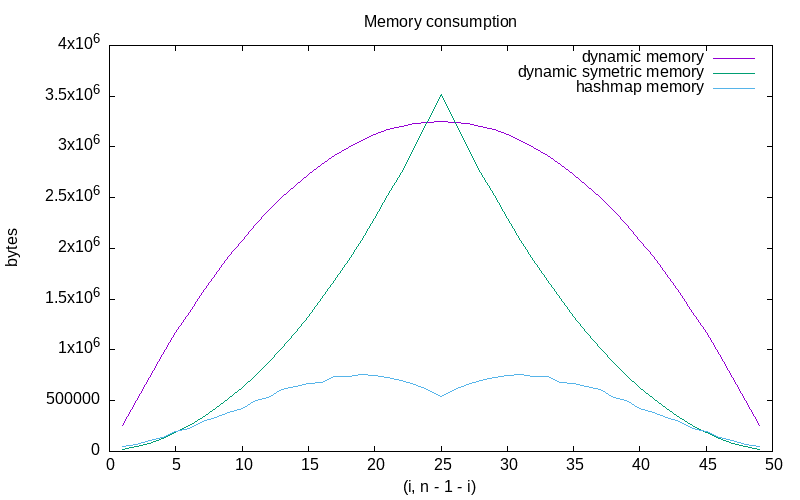
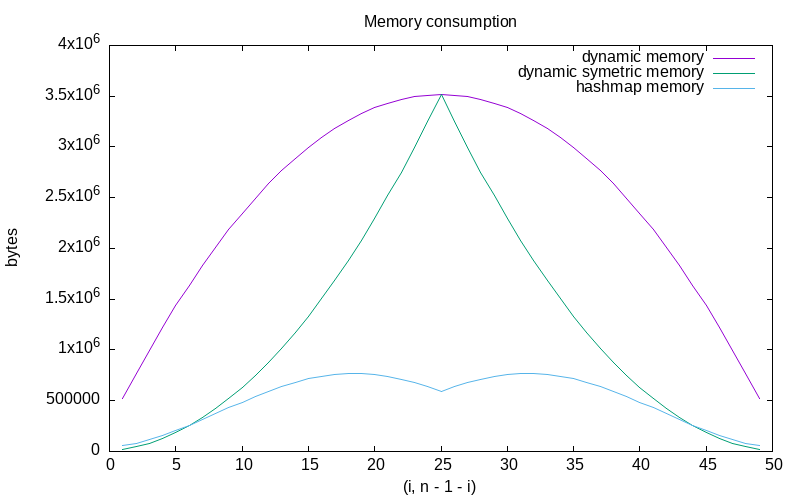
fixed hashmap with different table sizes

diff --git a/TP2/tablet.c b/TP2/tablet.c
@@ -135,9 +135,9 @@ int calculate_configuration_dynamic_init(tablet_t tablet)
    i = tablet.point.i;
    j = tablet.point.j;
 
-   int16_t ****array = init_array(m, n, i, j);
+   int16_t ****array = init_array(m, n, i + 1, j + 1);
    int res = calculate_configuration_dynamic(tablet, array);
-   free_array(array, m, n, i, j);
+   free_array(array, m, n, i + 1, j + 1);
    return res;
 }
 
@@ -146,8 +146,8 @@ void calculate_all_configurations_equals_x(tablet_t tablet, int x)
    int m, n, i, j;
    m = tablet.m;
    n = tablet.n;
-   i = tablet.m - 1;
-   j = tablet.n - 1;
+   i = tablet.m;
+   j = tablet.n;
 
    int16_t ****array = init_array(m, n, i, j);
    int res;
@@ -209,7 +209,6 @@ int calculate_configuration_dynamic_symetric(tablet_t tablet, int16_t ****tab)
    }
 
    tablet_t symetric_dimensions = get_symetric_tablet_dimension(tablet);
-
    int16_t array_value = tab[symetric_dimensions.m][symetric_dimensions.n][symetric_dimensions.point.i][symetric_dimensions.point.j];
    if (array_value != 0)
    {
@@ -233,7 +232,6 @@ int calculate_configuration_dynamic_symetric(tablet_t tablet, int16_t ****tab)
 int calculate_configuration_dynamic_init_symetric(tablet_t tablet)
 {
    tablet_t symetric_dimensions = get_symetric_tablet_dimension(tablet);
-
    int16_t ****array = init_array(symetric_dimensions.m, symetric_dimensions.n, symetric_dimensions.point.i + 1, symetric_dimensions.point.j + 1);
    int res = calculate_configuration_dynamic_symetric(tablet, array);
    free_array(array, symetric_dimensions.m, symetric_dimensions.n, symetric_dimensions.point.i + 1, symetric_dimensions.point.j + 1);
@@ -363,13 +361,39 @@ void print_tablet(tablet_t tablet)
    }
 }
 
+#define TABLE_1 4093
+#define BASE_1 4091
+
+#define TABLE_2 8191
+#define BASE_2 8179
+
+#define TABLE_3 16411
+#define BASE_3 16381
+
+#define TABLE_4 32771
+#define BASE_4 32749
+
+#define TABLE_5 65537
+#define BASE_5 65521
+
+#define TABLE_6 98317
+#define BASE_6 98299
+
+#define TABLE_SIZE TABLE_1
+#define BASE BASE_1
+
+unsigned long hash_tablet(int m, int n)
+{
+   return ((m * BASE) % TABLE_SIZE * BASE + n) % TABLE_SIZE;
+}
+
 int calculate_configuration_hash_init(tablet_t tablet)
 {
-   memory_used += sizeof(node_t *) * (tablet.m * tablet.n);
-   node_t *hashmap[tablet.m * tablet.n + 1];
-   memset(hashmap, 0, (tablet.m * tablet.n + 1) * sizeof(node_t *));
+   memory_used += sizeof(node_t *) * (TABLE_SIZE + 1);
+   node_t *hashmap[TABLE_SIZE + 1];
+   memset(hashmap, 0, (TABLE_SIZE + 1) * sizeof(node_t *));
    int res = calculate_configuration_hash(tablet, hashmap);
-   for (int i = 0; i < tablet.m * tablet.n + 1; i++)
+   for (int i = 0; i < TABLE_SIZE + 1; i++)
    {
       if (hashmap[i] != NULL)
       {
@@ -396,10 +420,10 @@ int calculate_configuration_hash(tablet_t tablet, node_t *hashmap[])
 
    tablet_t symetric_dimensions = get_symetric_tablet_dimension(tablet);
 
-   node_t *linked_list = hashmap[symetric_dimensions.m * symetric_dimensions.n];
+   node_t *linked_list = hashmap[hash_tablet(symetric_dimensions.m, symetric_dimensions.n)];
    while (linked_list != NULL)
    {
-      if (linked_list->hash == symetric_dimensions.point.i * symetric_dimensions.point.j && linked_list->v != 0)
+      if (linked_list->point.i == symetric_dimensions.point.i && linked_list->point.j == symetric_dimensions.point.j)
       {
          return linked_list->v;
       }
@@ -417,33 +441,32 @@ int calculate_configuration_hash(tablet_t tablet, node_t *hashmap[])
    }
    int max = calculate_max(configurations_res, tablet.m - 1 + tablet.n - 1);
 
-   if (hashmap[symetric_dimensions.m * symetric_dimensions.n] == NULL)
+   if (hashmap[hash_tablet(symetric_dimensions.m, symetric_dimensions.n)] == NULL)
    {
       node_t *new_list = malloc(sizeof(node_t));
-      new_list->hash = symetric_dimensions.point.i * symetric_dimensions.point.j;
+      new_list->point.i = symetric_dimensions.point.i;
+      new_list->point.j = symetric_dimensions.point.j;
       new_list->v = max;
       new_list->next = NULL;
-      hashmap[symetric_dimensions.m * symetric_dimensions.n] = new_list;
+      hashmap[hash_tablet(symetric_dimensions.m, symetric_dimensions.n)] = new_list;
    }
    else
    {
-      char found = 0;
-      while (!found && linked_list != NULL)
+
+      while (linked_list != NULL)
       {
-         if (linked_list->hash == symetric_dimensions.point.i * symetric_dimensions.point.j)
+         if (linked_list->point.i == symetric_dimensions.point.i && linked_list->point.j == symetric_dimensions.point.j)
          {
-            found = 1;
+            return linked_list->v;
          }
          linked_list = linked_list->next;
       }
-      if (!found)
-      {
-         node_t *new_first = malloc(sizeof(node_t));
-         new_first->v = max;
-         new_first->hash = symetric_dimensions.point.i * symetric_dimensions.point.j;
-         new_first->next = hashmap[symetric_dimensions.m * symetric_dimensions.n];
-         hashmap[symetric_dimensions.m * symetric_dimensions.n] = new_first;
-      }
+      node_t *new_first = malloc(sizeof(node_t));
+      new_first->v = max;
+      new_first->point.i = symetric_dimensions.point.i;
+      new_first->point.j = symetric_dimensions.point.j;
+      new_first->next = hashmap[hash_tablet(symetric_dimensions.m, symetric_dimensions.n)];
+      hashmap[hash_tablet(symetric_dimensions.m, symetric_dimensions.n)] = new_first;
    }
    return max;
 }

diff --git a/TP2/experiments.c b/TP2/experiments.c
@@ -18,7 +18,7 @@ void generate_experimentations()
    FILE *memory_file = fopen("./gnuplot/memory.dat", "w");
    FILE *time_file = fopen("./gnuplot/time.dat", "w");
 
-   long int sum_memory_dynamic, sum_memory_dynamic_symetric, sum_memory_hashmap;
+   long sum_memory_dynamic, sum_memory_dynamic_symetric, sum_memory_hashmap;
    double sum_time_dynamic, sum_time_dynamic_symetric, sum_time_hashmap;
    for (int i = 1; i < tablet.m - 1; i++)
    {
@@ -58,15 +58,28 @@ void generate_experimentations()
 
       sprintf(buf, "%d %lf %lf %lf\n", tablet.point.i, cpu_time_used_dynamic, cpu_time_used_dynamic_symetric, cpu_time_used_hashmap);
       fwrite(buf, strlen(buf), 1, time_file);
+
+      printf("%d\n", i);
    }
    fclose(memory_file);
    fclose(time_file);
 
-   double symetric_acceleration = 100 * sum_time_dynamic / sum_time_dynamic_symetric;
-   double symetric_memory_percent = (double)sum_memory_dynamic_symetric * 100 / (double)sum_memory_dynamic;
-   double hashmap_memory_percent = (double)sum_memory_dynamic * 100 / (double)sum_memory_hashmap;
-   double symetric_acceleration_over_hashmap = 100 * sum_time_hashmap / sum_time_dynamic_symetric;
-   printf("Mémoire gagnée par les symétries (en %%) : %lf, accélération : %lf\nMémoire gagnée avec la hashmap (en %%) : %lf, accélération par le tableau et symétrie : %lf\n", symetric_memory_percent, symetric_acceleration, hashmap_memory_percent, symetric_acceleration_over_hashmap);
+   sum_memory_dynamic = sum_memory_dynamic / 1000000;
+   sum_memory_dynamic_symetric = sum_memory_dynamic_symetric / 1000000;
+   sum_memory_hashmap = sum_memory_hashmap / 1000000;
+
+   printf("Dynamic :\n\
+         %.2lf seconds\n\
+         %ld mo\n\n",
+          sum_time_dynamic, sum_memory_dynamic);
+   printf("Dynamic symetric :\n\
+         %.2lf seconds\n\
+         %ld mo\n\n",
+          sum_time_dynamic_symetric, sum_memory_dynamic_symetric);
+   printf("Hashmap :\n\
+         %.2lf seconds\n\
+         %ld mo\n",
+          sum_time_hashmap, sum_memory_hashmap);
 }
 
 int main()

diff --git a/TP2/main.c b/TP2/main.c
@@ -45,6 +45,7 @@ int main(int argc, char **argv)
       cpu_time_used = ((double)(end - start)) / CLOCKS_PER_SEC;
       printf("Basic recursive : %d, time : %lf\n", res, cpu_time_used);
    */
+
    memory_used = 0;
    start = clock();
    res = calculate_configuration_dynamic_init(tablet);
@@ -59,13 +60,13 @@ int main(int argc, char **argv)
    cpu_time_used = ((double)(end - start)) / CLOCKS_PER_SEC;
    printf("Dynamic symetric : %d, time : %lf, memory used : %d bytes\n", res, cpu_time_used, memory_used);
 
-   /*
-    start = clock();
-    res = calculate_configuration_hash_init(tablet);
-    end = clock();
-    cpu_time_used = ((double)(end - start)) / CLOCKS_PER_SEC;
-    printf("Hashmap : %d, time : %lf\n", res, cpu_time_used);
-    */
+   memory_used = 0;
+   start = clock();
+   res = calculate_configuration_hash_init(tablet);
+   end = clock();
+   cpu_time_used = ((double)(end - start)) / CLOCKS_PER_SEC;
+   printf("Hashmap : %d, time : %lf, memory used : %d bytes\n", res, cpu_time_used, memory_used);
+
    // game(tablet);
    return 0;
 }

diff --git a/TP2/tablet.h b/TP2/tablet.h
@@ -22,7 +22,7 @@ typedef struct
 struct node_s
 {
     int16_t v;
-    int hash;
+    point_t point;
     struct node_s *next;
 };
 typedef struct node_s node_t;
